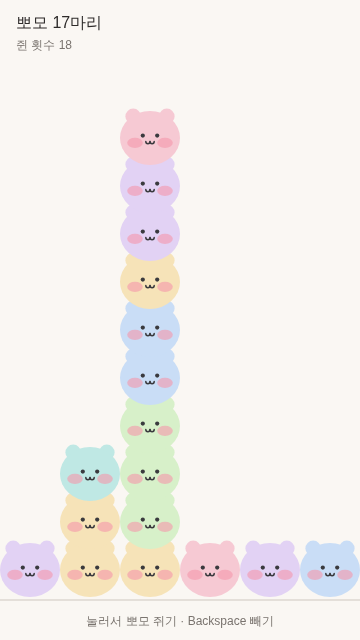
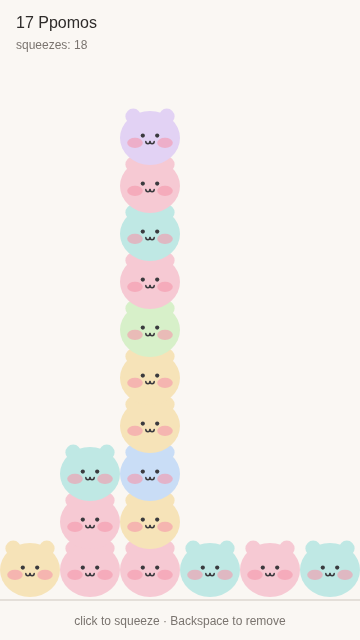
ICM Week 6: English on-screen text, comments and plan for class
Claude-Session: https://claude.ai/code/session_01KDvbePoQSCswEvmDQpWvZS

Changed region(s): [[0.0, 0.1562, 0.8556, 1.0], [0.0306, 0.0, 0.275, 0.0938]]

diff --git a/characters/ppomo-icm/sketch.js b/characters/ppomo-icm/sketch.js
@@ -1,37 +1,37 @@
-// 뽀모 — FOMO가 쌓인다 (ICM Week 6, 진행 중)
-// 화면을 누를 때마다(= 뽀모를 쥘 때마다) 뽀모가 한 마리씩 위에서 떨어져 바닥에 쌓인다.
-// 누른 위치의 칸으로 떨어지고, 그 칸에 이미 있는 뽀모 위에 올라간다.
-// Backspace: 마지막으로 떨어진 뽀모를 뺀다.
+// Ppomo — FOMO piles up (ICM Week 6, work in progress)
+// Every press of the screen (= every squeeze of Ppomo) drops one Ppomo from the top onto the floor.
+// It falls into the column you pressed and lands on top of the Ppomos already there.
+// Backspace removes the Ppomo that fell last.
 
 const W = 360;
 const H = 640;
-const SIZE = 60;              // 뽀모 한 마리 크기 = 칸 너비
-const COLS = W / SIZE;        // 칸 수 (6칸)
-const STACK_STEP = SIZE * 0.8; // 쌓일 때 조금씩 겹쳐서 말랑하게
-const GROUND = H - 40;        // 바닥 선
+const SIZE = 60;              // size of one Ppomo = column width
+const COLS = W / SIZE;        // number of columns (6)
+const STACK_STEP = SIZE * 0.8; // overlap a little when stacking so the pile looks squishy
+const GROUND = H - 40;        // floor line
 const GRAVITY = 0.6;
 
-// 마리마다 다른 파스텔 색 (#4 기획서 구상)
+// a different pastel color for each Ppomo (from my #4 proposal)
 const PASTELS = ['#F6C9D3', '#C9DDF6', '#D7F0C9', '#F6E3B8', '#E2D2F4', '#BFE8E4'];
 
-let ppomos = [];   // 쌓인 뽀모들 (객체 배열)
-let log = [];      // 사용자 행동 기록: { action, time }
+let ppomos = [];   // the Ppomos on screen (array of objects)
+let log = [];      // record of user actions: { action, time }
 
 class Ppomo {
   constructor(col, stackIndex) {
     this.col = col;
     this.x = col * SIZE + SIZE / 2;
-    this.y = -SIZE;                                   // 화면 위에서 시작
-    this.targetY = GROUND - SIZE / 2 - stackIndex * STACK_STEP;   // 착지할 높이
+    this.y = -SIZE;                                   // start above the screen
+    this.targetY = GROUND - SIZE / 2 - stackIndex * STACK_STEP;   // landing height
     this.speed = 0;
     this.landed = false;
-    this.squash = 0;                                  // 착지할 때 찌그러짐 (1 → 0)
+    this.squash = 0;                                  // squash on landing (1 → 0)
     this.color = random(PASTELS);
   }
 
   fall() {
     if (this.landed) {
-      this.squash *= 0.85;                            // 찌그러짐이 천천히 풀린다
+      this.squash *= 0.85;                            // the squash slowly relaxes
       return;
     }
     this.speed += GRAVITY;
@@ -45,25 +45,25 @@ class Ppomo {
 
   show() {
     push();
-    translate(this.x, this.y + (SIZE / 2) * 0.2 * this.squash);   // 찌그러질 때 바닥에 붙어 있게
+    translate(this.x, this.y + (SIZE / 2) * 0.2 * this.squash);   // keep the bottom on the ground while squashed
     scale(1 + 0.2 * this.squash, 1 - 0.2 * this.squash);
     noStroke();
 
-    // 귀
+    // ears
     fill(this.color);
     circle(-SIZE * 0.28, -SIZE * 0.36, SIZE * 0.26);
     circle(SIZE * 0.28, -SIZE * 0.36, SIZE * 0.26);
-    // 몸
+    // body
     ellipse(0, 0, SIZE, SIZE * 0.9);
-    // 볼
+    // cheeks
     fill(244, 150, 170, 150);
     ellipse(-SIZE * 0.25, SIZE * 0.08, SIZE * 0.26, SIZE * 0.17);
     ellipse(SIZE * 0.25, SIZE * 0.08, SIZE * 0.26, SIZE * 0.17);
-    // 눈
+    // eyes
     fill(58, 58, 62);
     circle(-SIZE * 0.12, -SIZE * 0.04, SIZE * 0.07);
     circle(SIZE * 0.12, -SIZE * 0.04, SIZE * 0.07);
-    // 입 (ω)
+    // mouth (ω)
     noFill();
     stroke(58, 58, 62);
     strokeWeight(1.5);
@@ -81,7 +81,7 @@ function setup() {
 function draw() {
   background(250, 247, 243);
 
-  // 바닥
+  // floor
   stroke(228, 223, 217);
   strokeWeight(2);
   line(0, GROUND, W, GROUND);
@@ -94,7 +94,7 @@ function draw() {
   drawInfo();
 }
 
-// 그 칸에 몇 마리가 있는지 센다
+// count how many Ppomos are in a column
 function countInColumn(col) {
   let n = 0;
   for (let i = 0; i < ppomos.length; i++) {
@@ -103,12 +103,12 @@ function countInColumn(col) {
   return n;
 }
 
-// 뽀모를 한 번 쥐었다 = 뽀모 한 마리 추가
+// one squeeze = add one Ppomo
 function squeeze(x) {
   let col = constrain(floor(x / SIZE), 0, COLS - 1);
   let n = countInColumn(col);
   let topY = GROUND - SIZE / 2 - n * STACK_STEP;
-  if (topY < SIZE) {                       // 이 칸은 꽉 찼다
+  if (topY < SIZE) {                       // this column is full
     log.push({ action: 'full', time: millis() });
     return;
   }
@@ -122,14 +122,14 @@ function mousePressed() {
 
 function keyPressed() {
   if (key === ' ') {
-    squeeze(random(W));                    // 스페이스: 아무 칸에나 떨어뜨리기
+    squeeze(random(W));                    // space: drop into a random column
   } else if (keyCode === BACKSPACE && ppomos.length > 0) {
-    ppomos.pop();                          // 마지막 뽀모 빼기 (가장 위에 있으니 다른 뽀모는 그대로)
+    ppomos.pop();                          // remove the last Ppomo (it's on top, so nothing else moves)
     log.push({ action: 'remove', time: millis() });
   }
 }
 
-// 기록 배열로 횟수를 세서 보여준다
+// count squeezes from the log array and show them
 function drawInfo() {
   let squeezes = 0;
   for (let i = 0; i < log.length; i++) {
@@ -139,10 +139,10 @@ function drawInfo() {
   fill(46, 43, 42);
   textSize(16);
   textAlign(LEFT, TOP);
-  text('뽀모 ' + ppomos.length + '마리', 16, 16);
+  text(ppomos.length + ' Ppomo' + (ppomos.length === 1 ? '' : 's'), 16, 16);
   fill(122, 116, 111);
   textSize(12);
-  text('쥔 횟수 ' + squeezes, 16, 40);
+  text('squeezes: ' + squeezes, 16, 40);
   textAlign(CENTER, BOTTOM);
-  text('눌러서 뽀모 쥐기 · Backspace 빼기', W / 2, H - 12);
+  text('click to squeeze · Backspace to remove', W / 2, H - 12);
 }

diff --git a/characters/ppomo-icm/index.html b/characters/ppomo-icm/index.html
@@ -1,5 +1,5 @@
 <!doctype html>
-<html lang="ko">
+<html lang="en">
 <head>
   <meta charset="utf-8">
   <meta name="viewport" content="width=device-width, initial-scale=1">

diff --git a/characters/ppomo-icm/PLAN.md b/characters/ppomo-icm/PLAN.md
@@ -1,66 +1,65 @@
-# 뽀모 — FOMO가 쌓인다 (ICM Week 6 CREATE 기획)
+# Ppomo — FOMO Piles Up (ICM Week 6 CREATE plan)
 
-## 한 줄
-뽀모를 쥘 때마다 화면 위에서 뽀모가 한 마리씩 떨어져 쌓인다. 쥐는 횟수만큼 FOMO가 눈에 보이게 쌓인다.
+## In one line
+Every time you squeeze Ppomo, one Ppomo falls from the top of the screen and lands on the pile. The more you squeeze, the more FOMO visibly piles up.
 
-## 무엇을 만드나
-- 화면을 누르는 것이 뽀모를 "쥐는" 행동이다. 실제 쥐기는 PComp 기기에서 하고, 이 화면 버전에서는 클릭·터치가 그 역할을 한다.
-- 한 번 누르면 뽀모 한 마리가 위에서 떨어져, 누른 위치의 칸으로 내려간다.
-- 바닥이나 이미 쌓인 뽀모 위에 말랑하게 착지한다. 착지할 때 살짝 찌그러졌다가 돌아온다.
-- 뽀모마다 다른 파스텔 색이다 (#4 기획서 구상).
-- 스크롤을 멈추면 추가가 멈추듯, 쥐기를 멈추면 더 떨어지지 않는다. 이미 쌓인 뽀모는 그대로 남는다.
-  - "감정은 소비되는 게 아니라 축적된다" (#4, #5에서 이어지는 문장)
+## What I'm making
+- Pressing the screen stands in for squeezing Ppomo. The real squeeze happens on the PComp device; in this screen version a click or tap does the same job.
+- Each press drops one Ppomo from the top into the column you pressed.
+- It lands softly on the floor or on the Ppomos already there, squashing a little and bouncing back.
+- Every Ppomo gets a different pastel color (the idea from my #4 proposal).
+- When you stop squeezing, nothing new falls, but the pile stays. "Feelings don't get used up; they accumulate" (carried over from #4 and #5).
 
-## 왜
-무서운 걸 귀엽게 만들면 부담이 줄어든다. FOMO를 손으로 만질 수 있는 귀여운 덩어리로 바꿔서, 내가 얼마나 쌓았는지 보이게 한다.
+## Why
+Making a scary thing cute makes it easier to carry. I turn FOMO into a soft, cute pile you can see, so you notice how much you've collected.
 
-## 과제 조건과의 연결
-| 조건 | 이 스케치에서 |
+## How it meets the assignment
+| Requirement | In this sketch |
 |---|---|
-| 객체 배열 | `ppomos` 배열에 `Ppomo` 클래스 인스턴스가 쌓임 |
-| 클릭/키로 추가 | 클릭(또는 스페이스) → `push`로 뽀모 추가 |
-| 삭제 | Backspace → 마지막 뽀모 `pop`. 다음 단계: 엉덩이를 비벼 달래면 그 뽀모가 배시시 웃으며 떠나감 |
-| 사용자 행동 기록 | `log` 배열에 `{ action, time }`으로 모든 쥐기·빼기를 기록하고, 화면에 쥔 횟수 표시 |
-| 변수·조건문·반복문·함수·클래스 | 칸 계산, 꽉 찬 칸 막기, 그리기 반복문, `squeeze()` 함수, `Ppomo` 클래스 |
+| Array of objects | `Ppomo` class instances stacked in the `ppomos` array |
+| Add with click / key | Click (or space) → `push` a new Ppomo |
+| Remove | Backspace → `pop` the last Ppomo. Week 2: rub a Ppomo's butt to soothe it and it smiles and floats away |
+| Record user actions | Every squeeze and removal goes into a `log` array as `{ action, time }`; the squeeze count is shown on screen |
+| Variables, conditionals, loops, functions, classes | Column math, blocking full columns, the draw loop, the `squeeze()` function, the `Ppomo` class |
 
-## 구조
+## Structure
 - `class Ppomo`
-  - 속성: `col`, `x`, `y`, `targetY`(착지 높이), `speed`, `landed`, `squash`, `color`
-  - 메서드: `fall()`(떨어지고 착지), `show()`(귀·몸·볼·눈·입 그리기)
-- `ppomos = []`: 화면의 뽀모들
-- `log = []`: 행동 기록
-- `squeeze(x)`: 누른 칸을 계산한다. 그 칸에 이미 몇 마리 있는지 세서 착지 높이를 정하고, 새 뽀모를 추가한다.
-- `mousePressed()`, `keyPressed()`: 입력
+  - Properties: `col`, `x`, `y`, `targetY` (landing height), `speed`, `landed`, `squash`, `color`
+  - Methods: `fall()` falls and lands; `show()` draws ears, body, cheeks, eyes and mouth
+- `ppomos = []`: the Ppomos on screen
+- `log = []`: the action record
+- `squeeze(x)`: finds the pressed column, counts how many Ppomos are already in it to set the landing height, and adds a new Ppomo
+- `mousePressed()`, `keyPressed()`: input
 
-## 1주차 (10/26) — 여기까지 했다
-- 누를 때마다 뽀모가 떨어져 칸별로 쌓인다.
-- 착지할 때 말랑하게 찌그러진다.
-- 마리마다 파스텔 색이 다르다.
-- Backspace로 마지막 뽀모를 뺄 수 있다.
-- 쥔 횟수와 마리 수를 기록·표시한다.
+## Week 1 (Oct 26) — what's done
+- Each press drops a Ppomo that stacks in its column.
+- Soft squash on landing.
+- A different pastel color for each Ppomo.
+- Backspace removes the last Ppomo.
+- Squeeze count and Ppomo count are recorded and shown.
 
-## 2주차 — 완성 범위
-- **빵빵해지기:** 쌓인 뽀모를 다시 누르면 그 뽀모의 볼 → 배 → 엉덩이가 단계별로 빵빵해진다. 핵심 메커닉 "쥘수록 커진다"를 한 마리 안에서 살린다.
-- **달래서 보내기:** 엉덩이를 마우스로 비비면 배시시 웃고 둥실 떠나간다. 배열에서 삭제되고, 위에 있던 뽀모들이 내려온다.
-- 화면이 꽉 차면 전체가 출렁출렁.
-- 기록 화면: 쥔 횟수, 빵빵하게 만든 횟수, 달래서 보낸 수.
-- 출처 표기 정리.
+## Week 2 — finished scope
+- **Puffing up:** pressing a Ppomo already on the pile puffs up its cheeks → belly → butt, step by step. This keeps the core mechanic, "the more you squeeze, the bigger it gets", inside each Ppomo.
+- **Soothe and let go:** rubbing a Ppomo's butt with the mouse makes it smile and float away. It is removed from the array and the Ppomos above it drop down.
+- When the screen is full, the whole pile wobbles.
+- Record screen: squeezes, puff-ups, and Ppomos soothed away.
+- Credits, then submit.
 
-## 향후 (윈터쇼를 향해)
-- 지금은 뽀모가 화면 **바닥**에 한 마리씩 쌓인다.
-- 앞으로는 카메라로 **사람의 형태를 인식**해서, 뽀모가 관람객의 **머리나 어깨 위에 자연스럽게 얹혀 쌓이게** 하고 싶다.
-  - 예: ml5.js의 몸 자세 인식으로 머리·어깨 위치를 찾아, 그 위치를 "바닥" 대신 착지 높이로 쓴다.
-  - 쥘수록 내 머리와 어깨 위에 FOMO 뽀모가 수북이 쌓이는 모습을 사진으로 남기는 전시 경험.
-- 입력은 클릭 대신 PComp에서 만드는 실제 뽀모 기기를 쥐는 것으로 바꾼다. 같은 `squeeze()` 함수가 불리게만 하면 된다.
-- 과목별 분담: PComp = 기기, ICM = 이 화면, Hypercinema = 영상, Applications = 놀이 개념.
+## Next — toward the Winter Show
+- Right now Ppomos pile up on the **floor** of the screen.
+- Later I want to use the camera to **recognize the person's body**, so Ppomos land naturally **on visitors' heads and shoulders** and pile up there.
+  - For example, use ml5.js body pose detection to find the head and shoulders, and use those as the landing height instead of the floor.
+  - The more you squeeze, the bigger the pile of FOMO Ppomos on your head and shoulders, captured as a photo: an experience only the show can give.
+- The input changes from a click to squeezing the real Ppomo device built in PComp. It only has to call the same `squeeze()` function.
+- Split across classes: PComp = device, ICM = this screen, Hypercinema = video, Applications = play concept.
 
-## 출처
+## Credits
 - p5.js (https://p5js.org)
-- 스케치 코드 작성에 Claude(Anthropic)의 도움을 받았다. 기획·캐릭터·메커닉은 본인 것.
+- The sketch code was written with help from Claude (Anthropic). The concept, character and mechanics are my own.
 
 ---
 
-## 수업에서 설명할 말 (영어)
+## What I'll say in class
 > Ppomo is a creature that soaks up FOMO. Every time you squeeze it — here, every click — one Ppomo falls from the top and lands on the pile. When you stop, nothing new falls, but what you've piled up stays. That's my point: the feeling isn't used up, it accumulates. I make the scary thing cute so it's easier to hold.
 
 > In code, each Ppomo is an object of a `Ppomo` class, stored in an array. A click pushes a new one, Backspace pops the last one, and every action is recorded in a log array with a timestamp.
